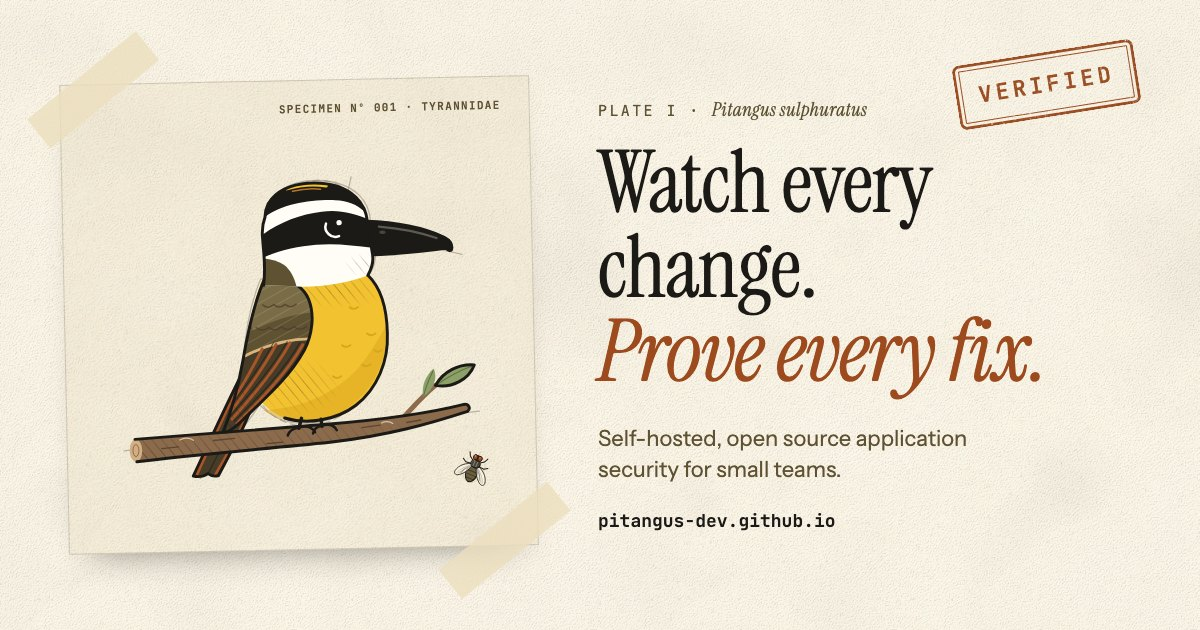
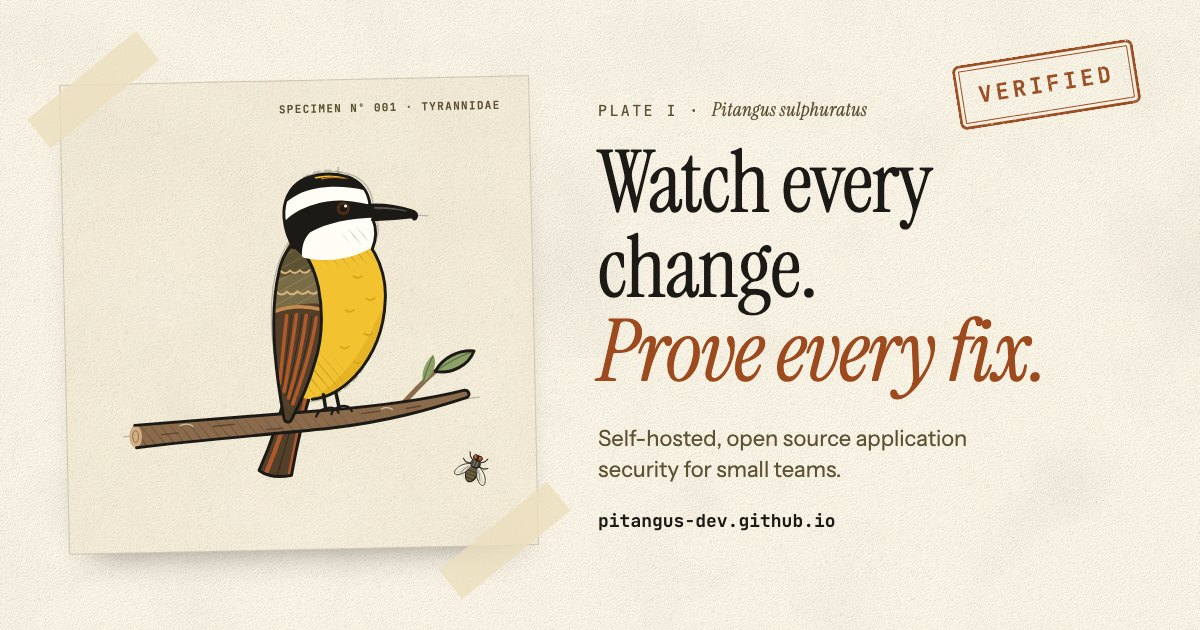
Bichofué redibujado como el real: erguido, ojo natural, pico a media cabeza, antifaz hasta la nuca, ala parda con bordes rufos y cola larga; parpadea solo cuando ya está dibujado

Changed region(s): [[0.0925, 0.2714, 0.4008, 0.7841]]

diff --git a/src/scripts/motion.ts b/src/scripts/motion.ts
@@ -121,7 +121,8 @@ function ink(gsap: Gsap, late: boolean) {
     const strokes = mascot.querySelectorAll('[data-ink]')
     const washes = mascot.querySelectorAll('[data-wash]')
     gsap.set(strokes, { drawSVG: '0%' })
-    gsap.timeline({ delay: 0.2 })
+    // It only starts blinking once it is drawn: a lid closing over an eye not yet painted is a black blot.
+    gsap.timeline({ delay: 0.2, onComplete: () => blink(gsap) })
       .from(pencil, { opacity: 0, duration: 0.6, stagger: 0.08, ease: 'sine.out' })
       .to(strokes, { drawSVG: '100%', duration: 1.5, stagger: 0.14, ease: 'sine.inOut' }, '-=0.3')
       .from(washes, { opacity: 0, duration: 0.9, stagger: 0.05, ease: 'sine.out' }, '-=0.5')
@@ -131,9 +132,9 @@ function ink(gsap: Gsap, late: boolean) {
     gsap.from('.hero [data-reveal]', { y: 18, opacity: 0, duration: 1, ease: 'power3.out', stagger: 0.1, delay: 0.5 })
   }
   // Alive, quietly: it breathes on its perch (from the feet) and its head turns a little on its neck.
-  gsap.to('.mascot-body', { scaleY: 1.012, svgOrigin: '27 42', duration: 2.6, ease: 'sine.inOut', yoyo: true, repeat: -1, delay: 2 })
-  gsap.to('.mascot-head', { rotation: 1.6, svgOrigin: '27 22', duration: 3.4, ease: 'sine.inOut', yoyo: true, repeat: -1, delay: 2.4 })
-  blink(gsap)
+  gsap.to('.mascot-body', { scaleY: 1.012, svgOrigin: '30 39.5', duration: 2.6, ease: 'sine.inOut', yoyo: true, repeat: -1, delay: 2 })
+  gsap.to('.mascot-head', { rotation: 1.6, svgOrigin: '30.5 17', duration: 3.4, ease: 'sine.inOut', yoyo: true, repeat: -1, delay: 2.4 })
+  if (late) blink(gsap)
 }
 
 // A real blink: the lid comes down fast, rises a bit slower, at uneven intervals, now and then twice.
